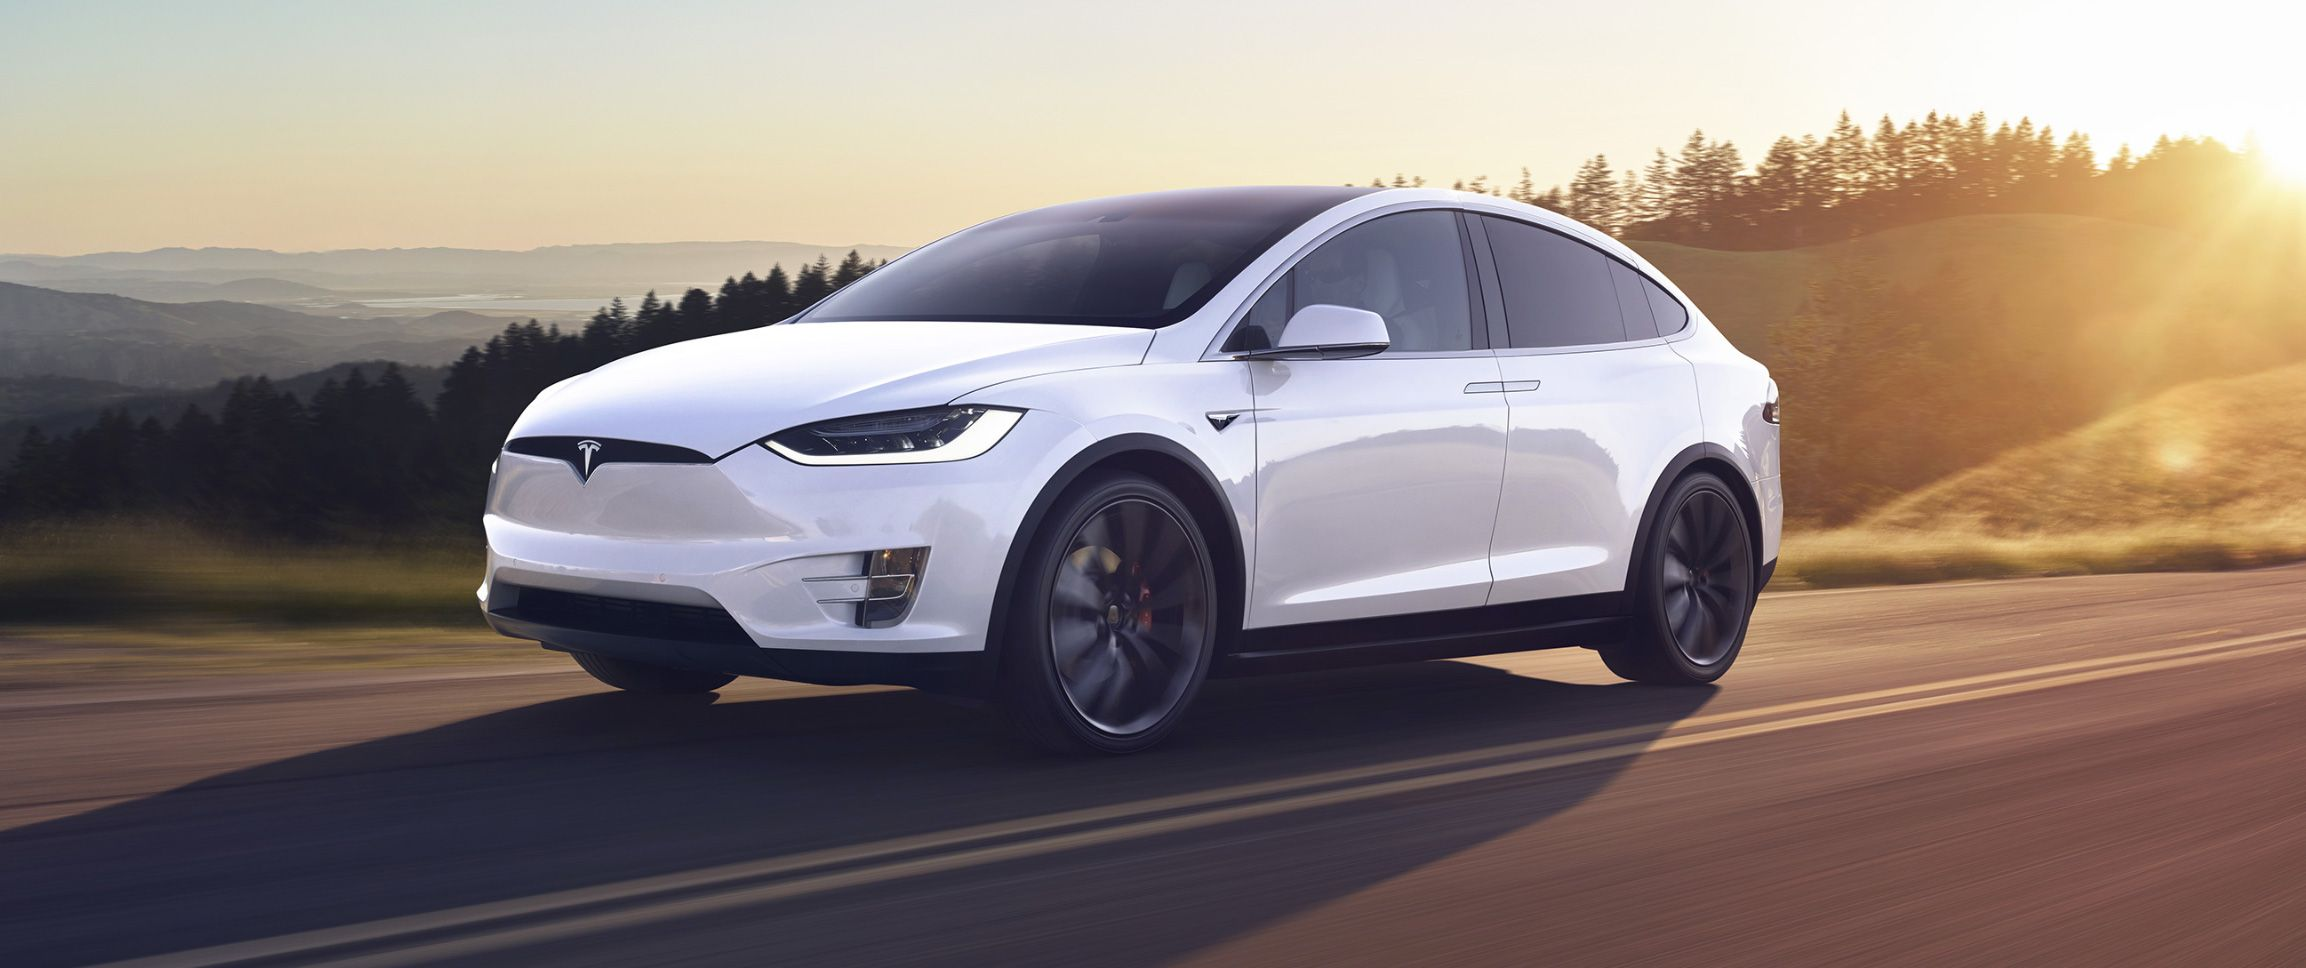
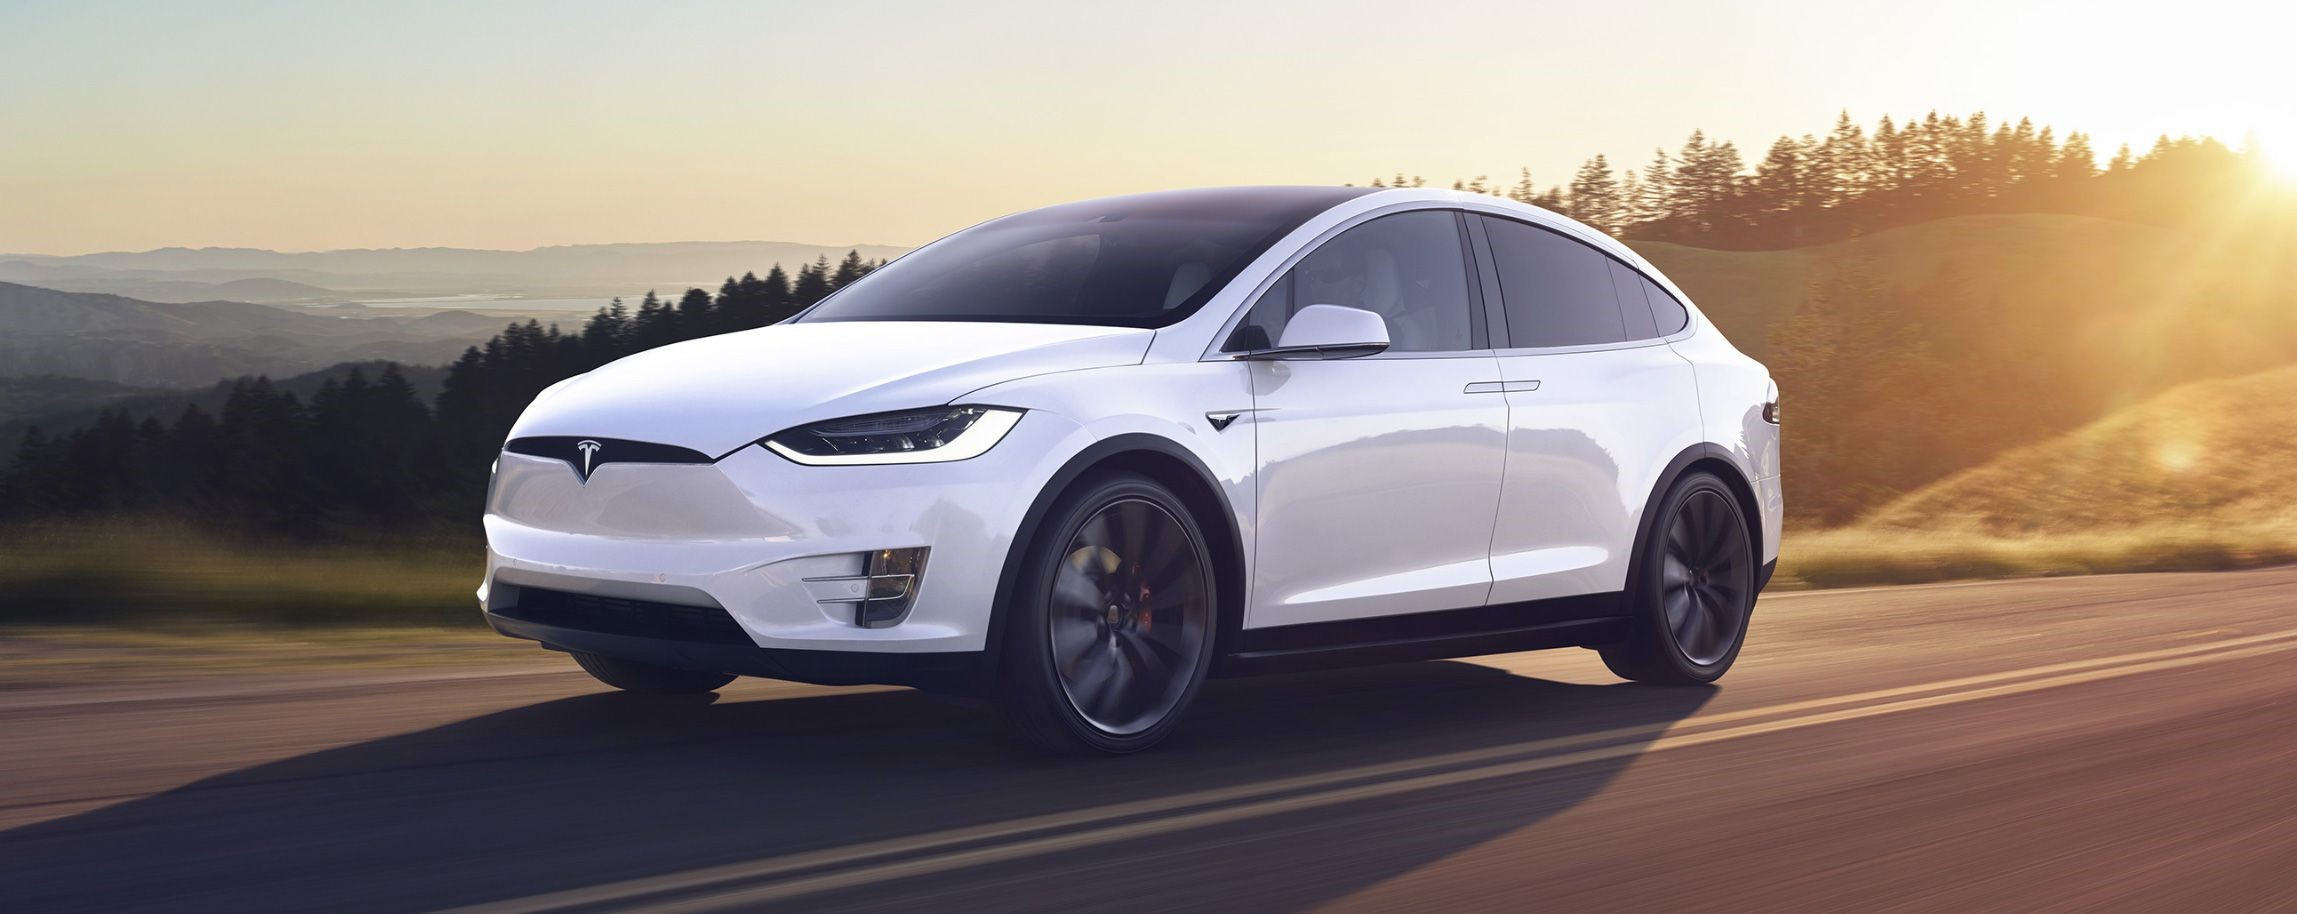
Lagt till tre artiklar

Changed region(s): [[0.0, 0.0919, 1.0, 1.0], [0.9273, 0.3982, 0.9582, 0.4289]]

diff --git a/index.html b/index.html
@@ -5,13 +5,14 @@
     <meta charset="UTF-8">
     <meta name="viewport" content="width=device-width, initial-scale=1.0">
     <link rel="stylesheet" href="style.css">
-    <title>Personlig sida</title>
+    <title>Personlig-sida</title>
 </head>
 
 <body>
     <header>
         <nav>
-            <img class="teslaImg" src="./images/Tesla-logo-png-Transparent-pictures-on-F-Scope-cliparts-2019.png" alt="Bild på Teslas loga">
+            <img class="teslaImg" src="./images/Tesla-logo-png-Transparent-pictures-on-F-Scope-cliparts-2019.png"
+                alt="Bild på Teslas loga">
             <ul>
                 <li>
                     <a href="about.html">About Elon</a>
@@ -25,12 +26,13 @@
                 </li>
             </ul>
         </nav>
+
     </header>
 
     <main>
         <img id="img1" src="./images/ModelS.jpg" Bild på en Tesla">
-        <div class="container1">
-            <article-1 id="article1">
+        <div class="container">
+            <article-1 class="articles" id="article1">
                 <h2>Tesla</h2>
                 <p>Tesla är ett företag som de flesta känner till. Det är känt för sina eldrivna bilar som inte bara kan
                     köras på långa distanser, utan också är otroligt snabba. Deras mest exlusiva bil Tesla Roadster
@@ -41,7 +43,7 @@
                     vanlig företags bil i Sverige då det inte blir samma skatter för bilen på grund av att den är
                     eldriven och kräver ej fossila bränslen som beskattas hårt i Sverige.</p>
             </article-1>
-            <article-2 id="article2">
+            <article-2 class="articles" id="article2">
                 <h2>SpaceX</h2>
                 <p>SpaceX är enligt mig det absolut mest intresanta företag som drivs av Elon. Detta beror på att det
                     är ett väldigt ambitiöst företag med väldigt stora mål, som innefattar att kolonisera Mars och ha en
@@ -51,8 +53,8 @@
                     SpaceX även finansierat med bidrag från NASA:s program COTS. </p>
             </article-2>
         </div>
-        <div class="container2">
-            <article-3 id="article3">
+        <div class="container">
+            <article-3 class="articles">
                 <h2>Entrepenören</h2>
                 <p>Elon Musk är en framgångsrik affärsman som driver ett flertal företag där det kändaste är Tesla. Han
                     driver även Space X som har som mål att kolonisera Mars. Ett företag som många inte vet att Elon var
@@ -61,6 +63,25 @@
             </article-3>
         </div>
         <img id="modelX" src="./images/2020-tesla-model-x-mmp-1-1579127420.jpg">
+        <div class="container">
+            <article-4 class="articles">
+                <h2>Olika modeller</h2>
+                <p>Elon Musk företag Tesla har genom åren släppt flera olika modeller. , medan Model X som ni ser ovan
+                    är en familjeversion, även fast den också är snabb. Model X är mer anpassad för en familj då det är
+                    en större bil med större lastutrymme. Man kan dock välja att ha en mindre bakluck och istället få
+                    två extra säten och därmed ha sju säten i bilen. </p>
+            </article-4>
+        </div>
+        <div class="container">
+            <article-5 class="articles" id="article5">
+                <h3>Model S & 3</h3>
+                <p>Deras första modell var model S som är på bilden i toppen av sidan. Denna bil är en av Teslas
+                    snabbaste</p>
+            </article-5>
+            <article-6 class="articles" id="article6">
+                <h3>Model X & Y</h3>
+            </article-6>
+        </div>
     </main>
     <footer>
         <p>Copyright Hugo Lönnqvist Österberg AB</p>

diff --git a/style.css b/style.css
@@ -4,7 +4,7 @@
 
 header {
     font-family: sans-serif;
-    background-color: #cc2c3a;
+    background-color: #a81723;
     padding: 0px;
 }
 
@@ -23,7 +23,6 @@ nav img {
 nav a {
     text-decoration: none;
     font-size: 32px;
-    color: white;
 }
 
 nav li {
@@ -31,7 +30,6 @@ nav li {
     display: inline-block;
     margin-right: 1vw;
     margin-left: 1vw;
-    color: white;
 }
 
 nav li a {
@@ -55,35 +53,37 @@ main {
     font-size: 18px;
 }
 
-.container1 {
+.container {
     display: flex;
     flex-direction: row;
     margin: 20px;
 }
 
-.container2 {
-    display: flex;
-    flex-direction: row;
-    margin: 20px;
+.articles {
+    margin: 8px;
 }
-
 #article1 {
     flex: 1 50vw;
-    margin: 8px;
 }
 
 #article2 {
     flex: 2 50vw;
-    margin: 8px;
 }
 
-#article3 {
-    margin: 8px;
+#article5 {
+    flex: 1 50vw;
 }
+
+#article6 {
+    flex: 2 50vw;
+}
+
+
 
 #modelX {
     width: 100%;
-    height: 30vw;
+    height: 40vw;
+    margin-bottom: 0px;
 }
 
 #aboutElon {
@@ -96,12 +96,13 @@ main {
     width: 30vw;
     margin-bottom: 10px;
 }
+
 #elonMuskImg2 {
     width: 30vw;
     margin-top: 10px;
 }
 
 footer {
-    background-color: #cc2c3a;
+    background-color: #a81723;
     padding: 1vw;
 }

diff --git a/about.html b/about.html
@@ -11,7 +11,7 @@
 <body>
     <header>
         <nav>
-            <img class="teslaImg" src="./images/teslaLogo2.png" alt="Bild på Teslas loga">
+            <img class="teslaImg" src="./images/Tesla-logo-png-Transparent-pictures-on-F-Scope-cliparts-2019.png" alt="Bild på Teslas loga">
             <ul>
                 <li>
                     <a href="index.html">Huvudsida</a>
@@ -43,7 +43,6 @@
                 <img id="elonMuskImg1" src="./images/ElonMusk.jpg" alt="Bild på Elon Musk">
                 <img id="elonMuskImg2" src="./images/ElonMusk2.jpg" alt="Bild på Elon Musk">
             </div>
-
         </article-1>
 
     </main>
